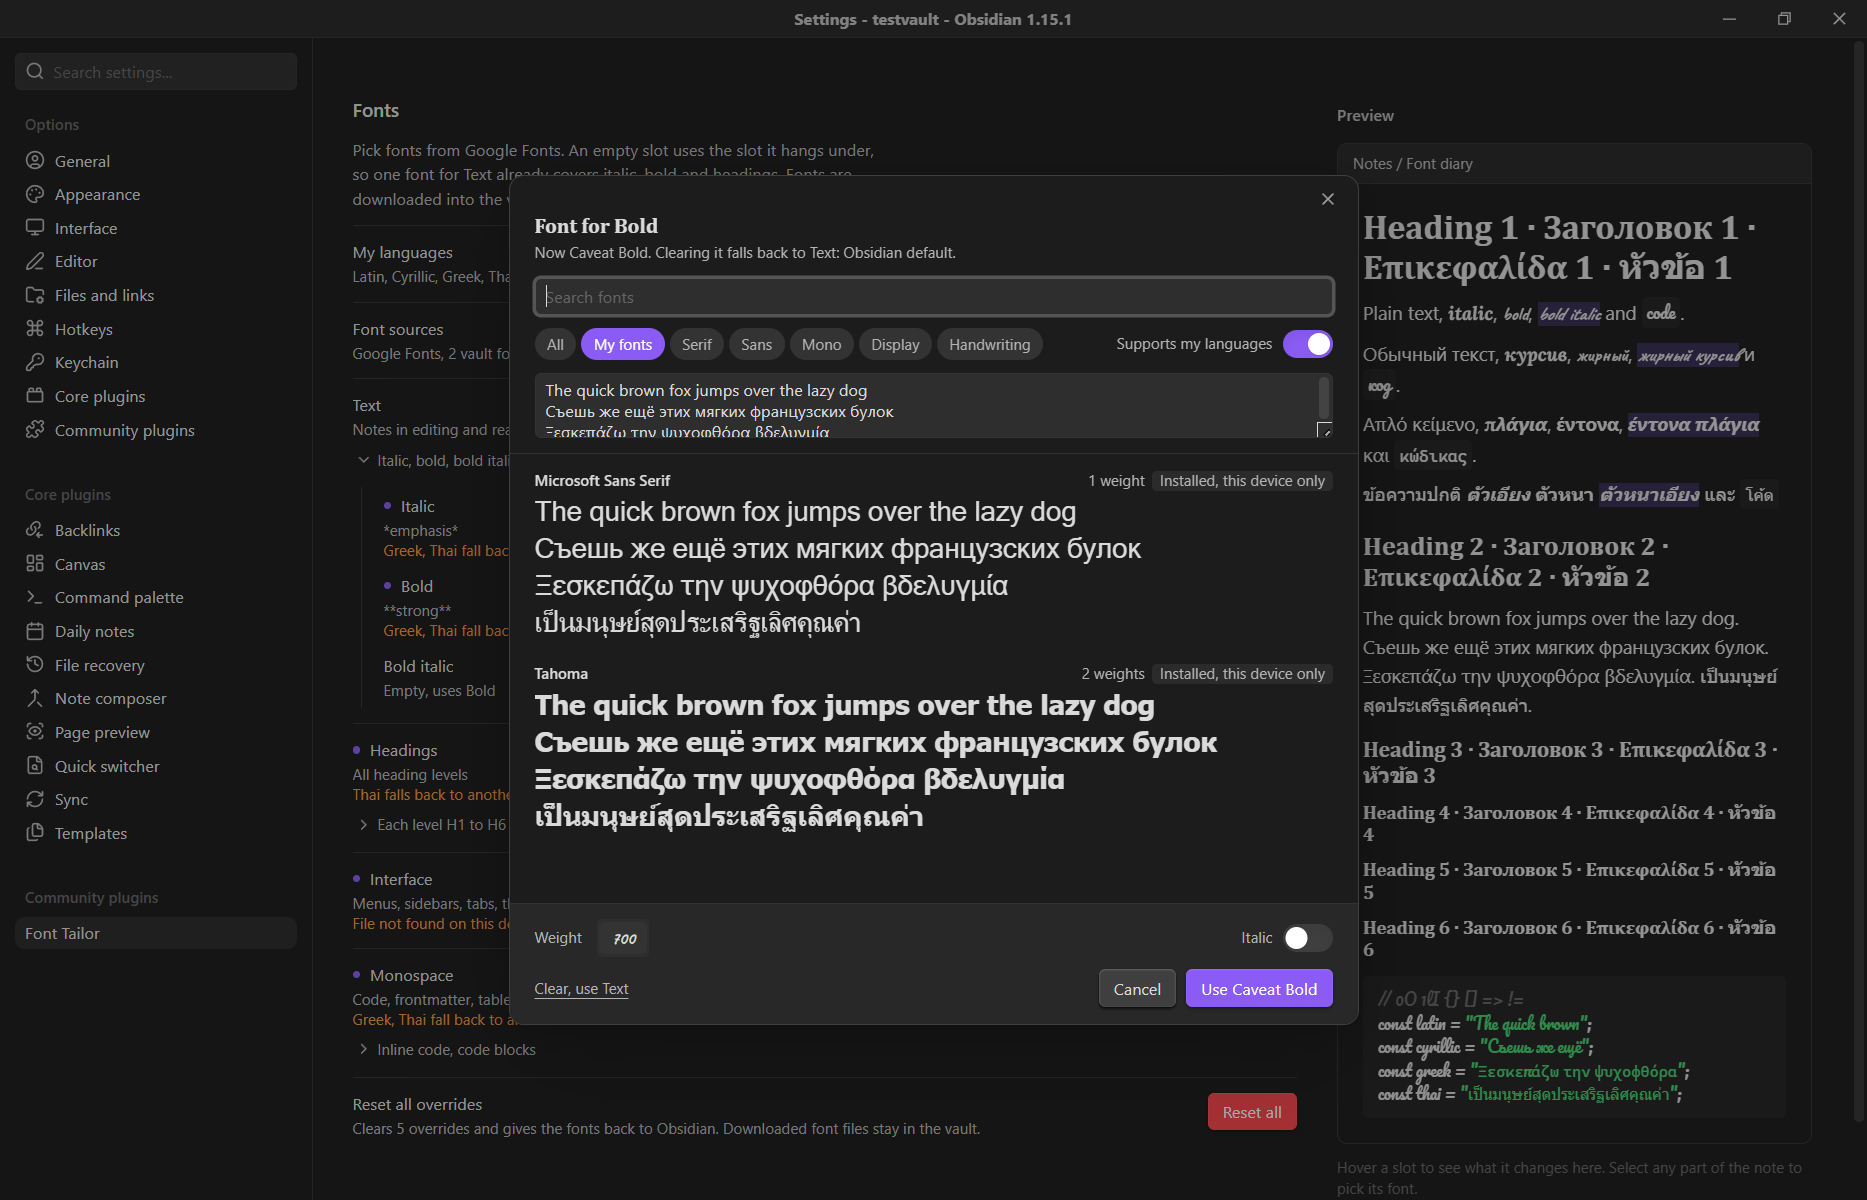
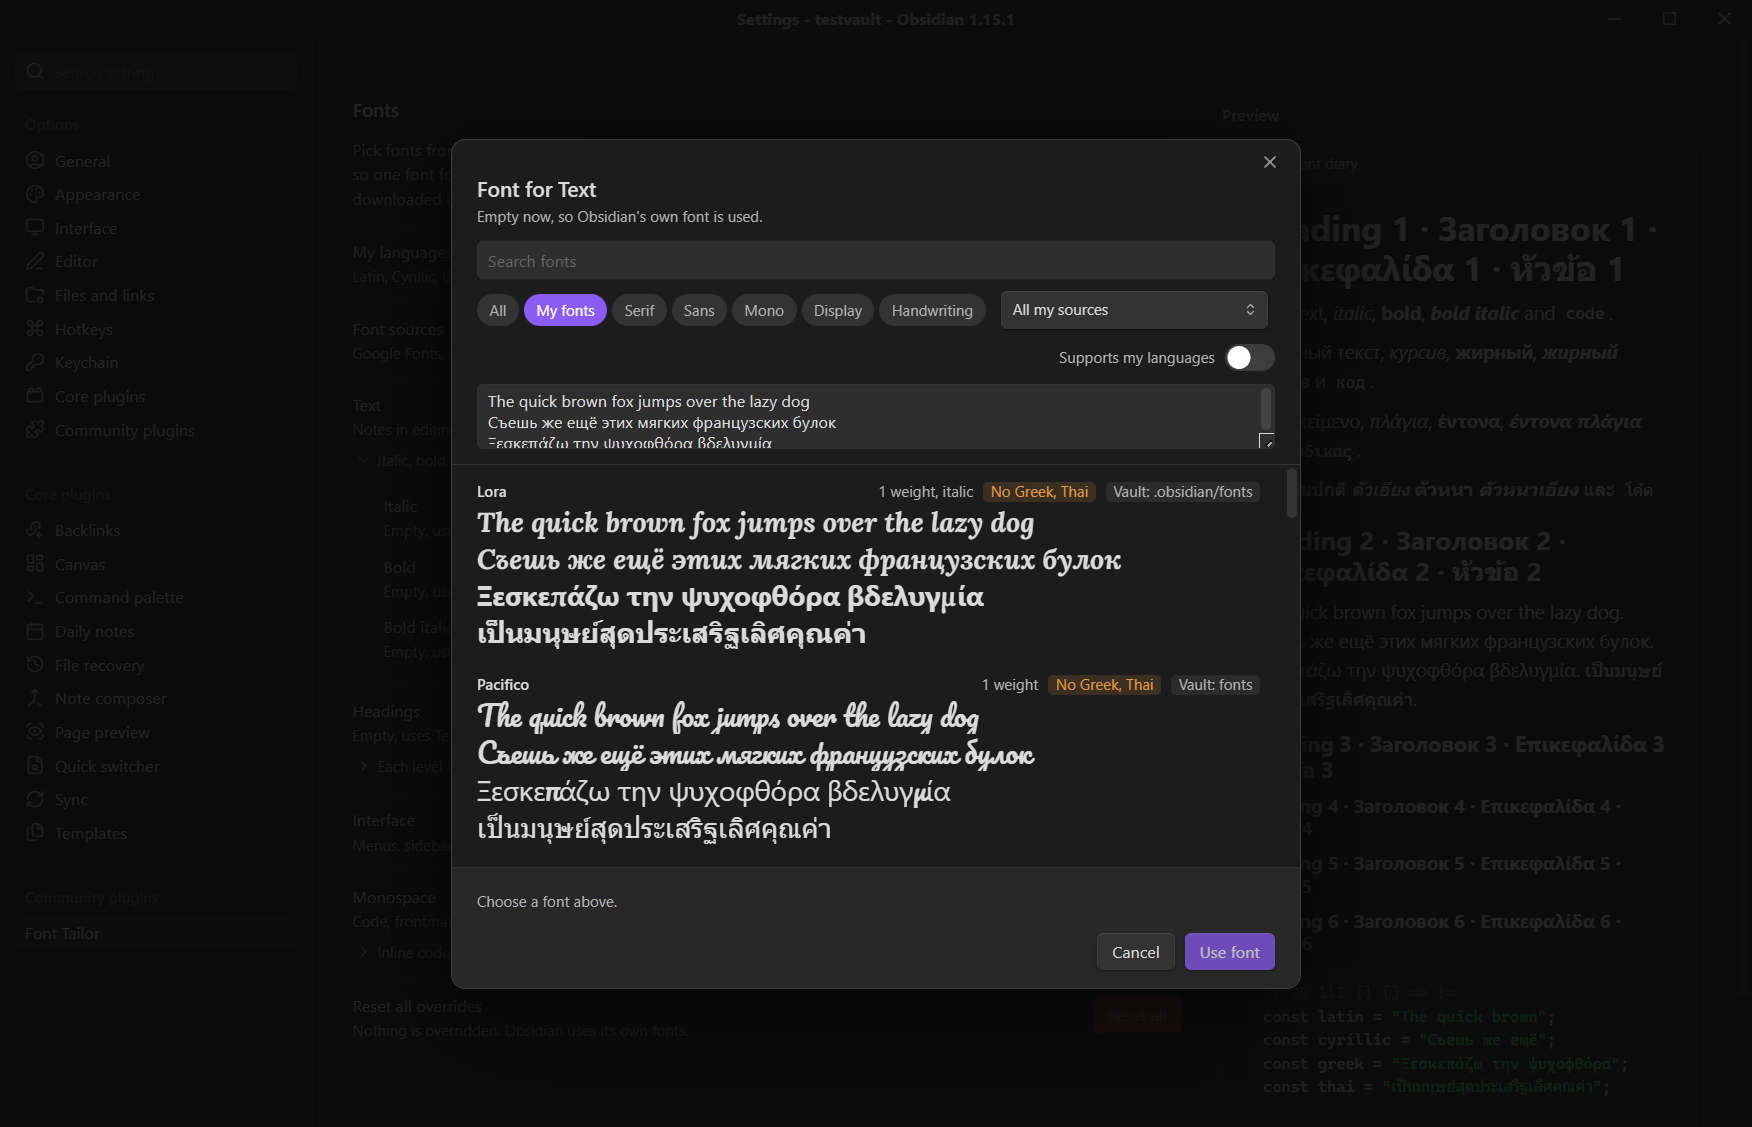
Picker: name each font's source, mark device-only and downloaded fonts
- Rows name the concrete source ("Vault: fonts", "Folder: …\Fonts",
  "Imported", "System fonts", "Google Fonts"), full path in the tooltip,
  "also in" for families found in several sources and which copy slots use.
- A laptop marker with a tooltip on fonts that do not sync.
- Google rows show downloaded / partly downloaded with styles, scripts and
  size on disk; the footer shows what using the selected style downloads.
- "My fonts" gets a source dropdown. Meta row wraps instead of overlapping.

diff --git a/src/picker.ts b/src/picker.ts
@@ -1,8 +1,8 @@
-import { App, ButtonComponent, Modal, ToggleComponent } from 'obsidian';
+import { App, ButtonComponent, DropdownComponent, Modal, ToggleComponent, setIcon, setTooltip } from 'obsidian';
 import { tuple } from './fonts';
 import type FontTailorPlugin from './main';
 import { keepsBlock, missingScripts, scriptsOf } from './scripts';
-import { SOURCE_LABEL } from './sources';
+import { deviceOnly, sourceLabel } from './sources';
 import { FontInfo, SLOTS, SlotId, nearestWeight, parentOf, resolve, slotRole, styleName, weightName } from './slots';
 
 const CATS: [string, string][] = [['all', 'All'], ['mine', 'My fonts'], ['serif', 'Serif'], ['sans', 'Sans'], ['mono', 'Mono'], ['display', 'Display'], ['hand', 'Handwriting']];
@@ -29,6 +29,11 @@ export class FontPicker extends Modal {
 	private sampleEl!: HTMLTextAreaElement;
 	private rowObserver: IntersectionObserver | null = null;
 	private catalogFailed = false;
+	private sourceFilter = '';
+	private sourceDrop!: DropdownComponent;
+	private sizes = new Map<string, number>();
+	/** Family to the labels of every source that has it. */
+	private sourcesOf = new Map<string, string[]>();
 	private mineToggle!: ToggleComponent;
 	private moreObserver: IntersectionObserver | null = null;
 
@@ -75,6 +80,12 @@ export class FontPicker extends Modal {
 		});
 		const toolRow = tools.createDiv('ft-tool-row');
 		this.catsEl = toolRow.createDiv({ cls: 'ft-chips', attr: { role: 'group', 'aria-label': 'Category' } });
+		this.sourceDrop = new DropdownComponent(toolRow).onChange((v) => {
+			this.sourceFilter = v;
+			this.renderList();
+		});
+		this.sourceDrop.selectEl.addClass('ft-source-filter');
+		this.sourceDrop.selectEl.setAttr('aria-label', 'Source');
 		const toggleLabel = toolRow.createEl('label', { cls: 'ft-toggle', text: 'Supports my languages' });
 		this.mineToggle = new ToggleComponent(toggleLabel).setValue(this.onlyMine).setTooltip(scriptsOf(this.plugin.scripts).map((s) => s.name).join(', ')).onChange((v) => {
 			this.onlyMine = v;
@@ -142,6 +153,14 @@ export class FontPicker extends Modal {
 		]);
 		this.catalogFailed = !google;
 		this.fonts = [...local, ...(google ?? [])];
+		this.sizes = await this.plugin.diskSizes().catch(() => new Map<string, number>());
+		this.sourcesOf.clear();
+		for (const f of this.fonts) this.sourcesOf.set(f.family, [...(this.sourcesOf.get(f.family) ?? []), this.label(f)]);
+		this.sourceDrop.selectEl.empty();
+		this.sourceDrop.addOption('', 'All my sources');
+		for (const l of [...new Set(local.map((f) => this.label(f)))].sort()) this.sourceDrop.addOption(l, l);
+		this.sourceDrop.setValue(this.sourceFilter);
+		this.renderCats();
 		const source = this.selFamily ? this.plugin.info(this.selFamily)?.source ?? 'google' : null;
 		this.sel = this.fonts.find((f) => f.family === this.selFamily && (f.source ?? 'google') === source) ?? null;
 		this.renderList();
@@ -162,12 +181,23 @@ export class FontPicker extends Modal {
 		const q = this.query.trim().toLowerCase();
 		const mine = this.plugin.scripts;
 		return this.fonts.filter((f) =>
-			(this.cat === 'all' || f.category === this.cat || (this.cat === 'mine' && (f.source ?? 'google') !== 'google')) &&
+			(this.cat === 'all' || f.category === this.cat || (this.cat === 'mine' && (f.source ?? 'google') !== 'google' && (!this.sourceFilter || this.label(f) === this.sourceFilter))) &&
 			(!this.onlyMine || !missingScripts(f.subsets, mine).length) &&
 			(!q || f.family.toLowerCase().includes(q)));
 	}
 
+	private label(f: FontInfo): string {
+		return sourceLabel(f, this.plugin.data.imported ?? []);
+	}
+
+	/** The copy the slots use, when this family is in use: same source and folder. */
+	private isUsedCopy(f: FontInfo): boolean {
+		const used = this.plugin.data.fonts[f.family];
+		return !!used && (used.source ?? 'google') === (f.source ?? 'google') && (used.origin ?? f.origin) === f.origin;
+	}
+
 	private renderCats(): void {
+		this.sourceDrop.selectEl.toggle(this.cat === 'mine' && this.sourceDrop.selectEl.options.length > 2);
 		this.catsEl.empty();
 		for (const [id, label] of CATS) {
 			const chip = this.catsEl.createEl('button', { cls: ['ft-chip', this.cat === id ? 'is-active' : ''], text: label, attr: { 'aria-pressed': String(this.cat === id) } });
@@ -219,15 +249,15 @@ export class FontPicker extends Modal {
 		const mine = this.plugin.scripts;
 		const current = this.plugin.data.slots[this.slot]?.family;
 		for (const f of this.list.slice(this.shown, this.shown + PAGE)) {
-			const row = this.listEl.createDiv({ cls: ['ft-font-row', f.family === current ? 'is-current' : ''], attr: { role: 'option' } });
+			const row = this.listEl.createDiv({ cls: ['ft-font-row', f.family === current && this.isUsedCopy(f) ? 'is-current' : ''], attr: { role: 'option' } });
 			const meta = row.createDiv('ft-font-row-meta');
 			meta.createEl('b', { text: f.family });
-			const tags = meta.createSpan('ft-tags');
+			const tags = meta.createDiv('ft-tags');
 			const cat = CAT_LABEL[f.category];
-			tags.appendText(`${cat ? `${cat} · ` : ''}${f.weights.length} weight${f.weights.length > 1 ? 's' : ''}${f.italics.length ? ', italic' : ''}`);
-			if (f.source && f.source !== 'google') tags.createSpan({ cls: 'ft-badge mod-source', text: SOURCE_LABEL[f.source] });
+			tags.createSpan({ text: `${cat ? `${cat} · ` : ''}${f.weights.length} weight${f.weights.length > 1 ? 's' : ''}${f.italics.length ? ', italic' : ''}` });
 			const missing = missingScripts(f.subsets, mine);
 			if (missing.length) tags.createSpan({ cls: 'ft-badge', text: `No ${missing.map((s) => s.name).join(', ')}` });
+			this.sourceBadge(tags, f);
 			row.createDiv('ft-font-row-sample');
 			row.addEventListener('click', () => this.select(f));
 			row.addEventListener('dblclick', () => this.apply());
@@ -304,6 +334,38 @@ export class FontPicker extends Modal {
 		this.listEl.querySelector('.ft-font-row.is-selected')?.scrollIntoView({ block: 'nearest' });
 	}
 
+	/** Source name, a this-device-only marker, and for Google fonts what is downloaded. */
+	private sourceBadge(tags: HTMLElement, f: FontInfo): void {
+		const label = this.label(f);
+		const badge = tags.createSpan({ cls: 'ft-badge mod-source', text: label });
+		const lines = [f.source === 'google' || !f.source ? 'Downloaded from Google Fonts when a slot uses it.' : f.source === 'system' ? 'Installed on this computer.' : `${f.source === 'folder' ? 'Folder' : 'Vault folder'}: ${f.origin ?? ''}`];
+		const others = (this.sourcesOf.get(f.family) ?? []).filter((l) => l !== label);
+		if (others.length) {
+			lines.push(`Also in: ${others.join(', ')}.`);
+			const used = this.plugin.data.fonts[f.family];
+			if (used && this.plugin.inUse(f.family)) lines.push(this.isUsedCopy(f) ? 'Your slots use this copy.' : `Your slots use the copy from ${this.label(used)}.`);
+		}
+		setTooltip(badge, lines.join('\n'));
+		if (deviceOnly(f)) {
+			const icon = tags.createSpan({ cls: 'ft-marker', attr: { 'aria-label': 'This device only' } });
+			setIcon(icon, 'laptop');
+			setTooltip(icon, 'Only on this device. It does not sync; other devices fall back to Obsidian\'s font.');
+		}
+		const files = (f.source ?? 'google') === 'google' ? this.plugin.data.files[f.family] : undefined;
+		if (files) {
+			const total = f.weights.length + f.italics.length;
+			const partial = files.tuples.length < total;
+			const icon = tags.createSpan({ cls: ['ft-marker', 'mod-downloaded'], attr: { 'aria-label': partial ? 'Partly downloaded' : 'Downloaded' } });
+			setIcon(icon, partial ? 'circle-dashed' : 'circle-check');
+			const styles = files.tuples.map((t) => {
+				const [i = '0', w = '400'] = t.split(',');
+				return styleName(Number(w), i === '1');
+			});
+			const size = this.sizes.get(f.family);
+			setTooltip(icon, `${partial ? `Partly downloaded: ${styles.length} of ${total} styles` : 'Downloaded: all styles'}\n${styles.join(', ')}\n${scriptsOf(files.scripts).map((s) => s.name).join(', ')}${size ? `\n${formatSize(size)} in the vault` : ''}`);
+		}
+	}
+
 	private renderStyle(): void {
 		const el = this.styleEl;
 		el.empty();
@@ -335,6 +397,15 @@ export class FontPicker extends Modal {
 		if (this.italic && !f.italics.includes(this.weight)) {
 			el.createSpan({ text: f.italics.length ? `No italic at ${this.weight}. Obsidian would slant it.` : 'No true italic. Obsidian would slant the upright.' });
 		}
+		if ((f.source ?? 'google') === 'google') {
+			const note = el.createSpan({ cls: 'ft-download-note' });
+			const t = tuple(this.weight, this.italic && f.italics.includes(this.weight));
+			const key = `${f.family}|${t}`;
+			this.plugin.estimate(f.family, [t]).then((bytes) => {
+				if (!note.isConnected || `${this.sel?.family}|${tuple(this.weight, this.italic && f.italics.includes(this.weight))}` !== key) return;
+				note.setText(bytes ? `Downloads about ${formatSize(bytes)} for this style` : 'This style is already downloaded');
+			}).catch(() => note.setText('Needs a connection to download'));
+		}
 		this.applyBtn.setDisabled(false).setButtonText(`Use ${f.family} ${styleName(this.weight, this.italic)}`);
 	}
 
@@ -345,4 +416,8 @@ export class FontPicker extends Modal {
 		this.close();
 		void this.plugin.changeSlots((s) => (s[this.slot] = value), `${SLOTS[this.slot].name}: ${f.family} ${styleName(value.weight, value.italic)}`, f);
 	}
+}
+
+function formatSize(bytes: number): string {
+	return bytes < 1e6 ? `${Math.max(1, Math.round(bytes / 1024))} KB` : `${(bytes / 1048576).toFixed(1)} MB`;
 }

diff --git a/src/main.ts b/src/main.ts
@@ -1,4 +1,4 @@
-import { Notice, Plugin, getLanguage, normalizePath } from 'obsidian';
+import { Notice, Plugin, getLanguage, normalizePath, requestUrl } from 'obsidian';
 import { BodyFonts } from './apply';
 import { loadCatalog } from './catalog';
 import { FaceSet, FamilyFiles, PreviewFonts, downloadBlocks, fetchBlocks, tuple } from './fonts';
@@ -17,6 +17,8 @@ interface Data {
 	files: Record<string, FamilyFiles>;
 	previewCollapsed?: boolean;
 	sources?: SourceSettings;
+	/** Vault paths of files copied in with Import, so the picker can label them "Imported". */
+	imported?: string[];
 }
 
 export default class FontTailorPlugin extends Plugin {
@@ -113,7 +115,7 @@ export default class FontTailorPlugin extends Plugin {
 		let changed = false;
 		for (const f of all) {
 			const used = this.data.fonts[f.family];
-			if (used && used.source === f.source && JSON.stringify(used) !== JSON.stringify(f)) {
+			if (used && used.source === f.source && (used.origin ?? f.origin) === f.origin && JSON.stringify(used) !== JSON.stringify(f)) {
 				this.data.fonts[f.family] = f;
 				changed = true;
 			}
@@ -139,11 +141,13 @@ export default class FontTailorPlugin extends Plugin {
 				await readFontFile(async (o, l) => new Uint8Array(buf, o, Math.max(0, Math.min(l, buf.byteLength - o))), file.name);
 				if (await adapter.exists(target)) throw new Error('a file with this name is already there');
 				await adapter.writeBinary(target, buf);
+				this.data.imported = [...(this.data.imported ?? []), target];
 				n++;
 			} catch (e) {
 				new Notice(`Skipped ${file.name}: ${e instanceof Error ? e.message : String(e)}`);
 			}
 		}
+		await this.saveData(this.data);
 		if (!this.sources.vaultFolders.includes(IMPORT_FOLDER)) await this.setSources({ ...this.sources, vaultFolders: [...this.sources.vaultFolders, IMPORT_FOLDER] });
 		else await this.getLocalFonts(true);
 		this.onChange?.();
@@ -156,6 +160,41 @@ export default class FontTailorPlugin extends Plugin {
 			src: info.source === 'vault' ? `url("${this.app.vault.adapter.getResourcePath(file.path)}")` : this.readDeviceFile(file.path),
 			d: { style: file.italic ? 'italic' : 'normal', weight: String(file.weight), range: '' },
 		}));
+	}
+
+	/** Bytes on disk per downloaded Google family. */
+	async diskSizes(): Promise<Map<string, number>> {
+		const sizes = new Map<string, number>();
+		for (const [family, files] of Object.entries(this.data.files)) {
+			let total = 0;
+			for (const file of new Set(files.faces.map((f) => f.file))) total += (await this.app.vault.adapter.stat(file))?.size ?? 0;
+			sizes.set(family, total);
+		}
+		return sizes;
+	}
+
+	private estimates = new Map<string, Promise<number>>();
+
+	/** Bytes that using this Google style would download now (files already on disk count as 0). */
+	estimate(family: string, tuples: string[]): Promise<number> {
+		const scripts = this.scripts;
+		const key = `${family}|${tuples.join(';')}|${scripts.join(',')}`;
+		let p = this.estimates.get(key);
+		if (!p) {
+			p = (async () => {
+				const have = new Set((this.data.files[family]?.faces ?? []).map((f) => f.file.split('/').pop()));
+				const blocks = (await fetchBlocks(family, tuples)).filter((b) => keepsBlock(b.label, scripts) && !have.has(b.url.split('/').pop()));
+				let total = 0;
+				for (const url of new Set(blocks.map((b) => b.url))) {
+					const res = await requestUrl({ url, method: 'HEAD' });
+					total += Number(res.headers['content-length'] ?? 0);
+				}
+				return total;
+			})();
+			p.catch(() => this.estimates.delete(key));
+			this.estimates.set(key, p);
+		}
+		return p;
 	}
 
 	private readDeviceFile(path: string): ArrayBuffer | null {
@@ -251,6 +290,11 @@ export default class FontTailorPlugin extends Plugin {
 		}
 		this.body.apply([...this.docs].map((d) => d.body), this.data.slots, this.info);
 		if (JSON.stringify([...this.missing]) !== before) this.onChange?.();
+	}
+
+	/** Does any slot currently resolve to this family? */
+	inUse(family: string): boolean {
+		return this.usedFamilies().has(family);
 	}
 
 	/** Family to the css2 tuples its slots need. */

diff --git a/src/sources.ts b/src/sources.ts
@@ -20,12 +20,24 @@ export function defaultSources(configDir: string): SourceSettings {
 	return { vaultFolders: [`${configDir}/fonts`, IMPORT_FOLDER], deviceFolders: [], systemFonts: true };
 }
 
-export const SOURCE_LABEL: Record<Source, string> = {
-	google: 'Google Fonts',
-	vault: 'Vault',
-	folder: 'This device only',
-	system: 'Installed, this device only',
-};
+/** Fonts that live only on this device and do not sync. */
+export const deviceOnly = (f: FontInfo) => f.source === 'folder' || f.source === 'system';
+
+/** The concrete source the user set up: "Vault: fonts", "Folder: …\\Fonts", "Imported", "System fonts". */
+export function sourceLabel(f: FontInfo, imported: string[]): string {
+	switch (f.source ?? 'google') {
+		case 'google': return 'Google Fonts';
+		case 'system': return 'System fonts';
+		case 'vault': return f.files?.length && f.files.every((x) => imported.includes(x.path)) ? 'Imported' : `Vault: ${f.origin ?? ''}`;
+		default: return `Folder: ${shortPath(f.origin ?? '')}`;
+	}
+}
+
+/** Last two parts of a long path, e.g. "…\\Design\\Fonts". */
+function shortPath(p: string): string {
+	const parts = p.split(/[\\/]+/).filter(Boolean);
+	return parts.length > 3 ? `…${p.includes('\\') ? '\\' : '/'}${parts.slice(-2).join(p.includes('\\') ? '\\' : '/')}` : p;
+}
 
 interface Node {
 	fs: typeof import('fs');
@@ -56,7 +68,7 @@ interface Found {
 }
 
 /** Groups faces into families. Scripts come from the regular face, or any face that has them. */
-function group(found: Found[], source: Source): FontInfo[] {
+function group(found: Found[], source: Source, origin?: string): FontInfo[] {
 	const by = new Map<string, Found[]>();
 	for (const f of found) by.set(f.meta.family, [...(by.get(f.meta.family) ?? []), f]);
 	return [...by.entries()].sort(([a], [b]) => a.localeCompare(b)).map(([family, list]) => {
@@ -72,6 +84,7 @@ function group(found: Found[], source: Source): FontInfo[] {
 			weights: weights.length ? weights : uniq(true),
 			italics: uniq(true),
 			source,
+			origin,
 			files: list.map((f): LocalFile => ({ path: f.path, weight: f.meta.weight, italic: f.meta.italic })),
 			unknownScripts: !scripts,
 		};
@@ -95,8 +108,14 @@ export async function scanVault(app: App, folders: string[]): Promise<FontInfo[]
 		}
 		for (const sub of list.folders) await walk(sub);
 	};
-	for (const f of folders) await walk(normalizePath(f));
-	return group(found, 'vault');
+	// One entry per configured folder, so the picker can say which folder a font is in.
+	const out: FontInfo[] = [];
+	for (const f of folders) {
+		found.length = 0;
+		await walk(normalizePath(f));
+		out.push(...group(found, 'vault', normalizePath(f)));
+	}
+	return out;
 }
 
 /** Font files in folders outside the vault. Desktop only; reads just the tables it needs. */
@@ -134,8 +153,17 @@ export async function scanDeviceFolders(dirs: string[], source: Source = 'folder
 			}
 		}
 	};
-	for (const d of dirs) await walk(d, 0);
-	return group(found, source);
+	if (source === 'system') {
+		for (const d of dirs) await walk(d, 0);
+		return group(found, source);
+	}
+	const out: FontInfo[] = [];
+	for (const d of dirs) {
+		found.length = 0;
+		await walk(d, 0);
+		out.push(...group(found, source, d));
+	}
+	return out;
 }
 
 interface LocalFontData {

diff --git a/styles.css b/styles.css
@@ -402,7 +402,9 @@ button.ft-chip.is-active {
 }
 .ft-font-row-meta {
 	display: flex;
-	gap: 8px;
+	flex-wrap: wrap;
+	align-items: center;
+	gap: 4px 12px;
 	font-size: var(--font-ui-smaller);
 	color: var(--text-muted);
 }
@@ -411,8 +413,30 @@ button.ft-chip.is-active {
 	color: var(--text-normal);
 }
 .ft-font-row-meta .ft-tags {
+	display: flex;
+	flex-wrap: wrap;
+	align-items: center;
+	justify-content: flex-end;
+	gap: 4px 8px;
 	margin-inline-start: auto;
-	text-align: end;
+}
+.ft-marker {
+	display: inline-flex;
+	color: var(--text-muted);
+}
+.ft-marker svg {
+	width: 14px;
+	height: 14px;
+}
+.ft-marker.mod-downloaded {
+	color: var(--text-accent);
+}
+.ft-source-filter {
+	font-size: var(--font-ui-smaller);
+}
+.ft-download-note {
+	margin-inline-start: auto;
+	color: var(--text-faint);
 }
 .ft-font-row.is-current .ft-font-row-meta b::after {
 	content: ' · current';
@@ -421,7 +445,7 @@ button.ft-chip.is-active {
 }
 .ft-badge {
 	display: inline-block;
-	margin-inline-start: 6px;
+	white-space: nowrap;
 	padding: 0 6px;
 	border-radius: var(--radius-s);
 	background: rgba(var(--color-orange-rgb), 0.15);

diff --git a/src/slots.ts b/src/slots.ts
@@ -73,6 +73,8 @@ export interface FontInfo {
 	italics: number[];
 	/** Unset means Google. */
 	source?: Source;
+	/** The configured vault or device folder a local font was found in. */
+	origin?: string;
 	files?: LocalFile[];
 	/** WOFF2 files whose scripts could not be read yet. */
 	unknownScripts?: boolean;
